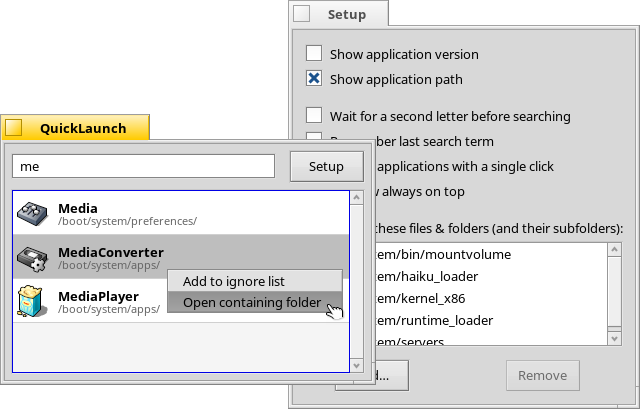
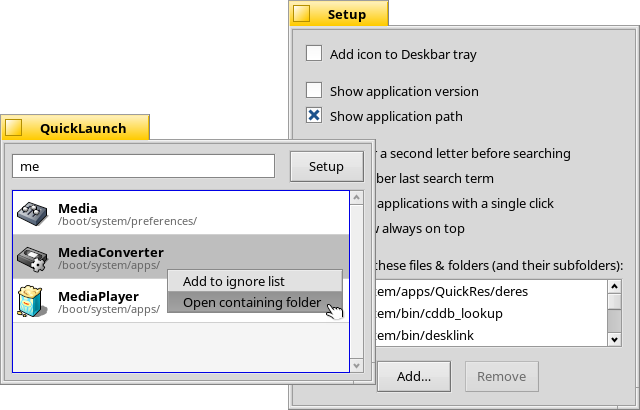
Update locales and documentation

diff --git a/ReadMe.html b/ReadMe.html
@@ -108,6 +108,7 @@ for <a href="http://www.haiku-os.org">Haiku</a><br />
 <p>In the main window the context menu was evoked via a right-click. The first item adds the selected app to the ignore list (works also with a drag &amp; drop). More on that in the setup options discussed below. The second item opens the app's location in a Tracker window. The same can be achieved by pressing <span class="key">CTRL</span>+<span class="key">RETURN</span>.</p>
 <p>The setup window shows these options:</p>
 <ul>
+<li><span class="menu">Show Deskbar replicant</span> — puts the QuickLaunch icon into the Deskbar tray. Click on it to start QuickLaunch.</li>
 <li><span class="menu">Show the version of an application</span> — only really useful when having older and newer versions of an app installed.</li>
 <li><span class="menu">Show the path to an application</span> —  interesting when you have several copies of an application.</li>
 <li><span class="menu">Wait for a second letter before starting the search</span> — probably only useful for slow systems.</li>
@@ -154,7 +155,8 @@ Finally, thanks to everyone that contributed translations for QuickLaunch.</p>
 <a id="history" name="history">History</a></h2>
 <p><b>1.0</b> - <i>16-03-2017:</i></p>
 <ul>
-<li>User request: Add a setting to launch applications with a single click.</li>
+<li>Add a setting to launch applications with a single click.</li>
+<li>Add optional to put a replicant in the Deskbar for a quick launch of QuickLaunch.</li>
 <li>Fixed layout issues in setup window and made default main and setup windows a bit bigger. Save the absolute position of the setup window.</li>
 <li>Improved page up/down scrolling.</li>
 <li>Change resizing of the main window to always fit the number of list items; font sensitive.</li>

diff --git a/SetupWindow.cpp b/SetupWindow.cpp
@@ -37,7 +37,7 @@ SetupWindow::SetupWindow(BRect frame)
 		| B_CLOSE_ON_ESCAPE)
 {
 	fChkDeskbar = new BCheckBox("DeskbarChk",
-		B_TRANSLATE("Add icon to Deskbar tray"),
+		B_TRANSLATE("Show Deskbar replicant"),
 		new BMessage(DESKBAR_CHK), B_WILL_DRAW | B_NAVIGABLE);
 	fChkDeskbar->SetExplicitMaxSize(BSize(B_SIZE_UNLIMITED, B_SIZE_UNSET));
 

diff --git a/ReadMe.md b/ReadMe.md
@@ -14,24 +14,43 @@ In the main window the context menu was evoked via a right-click. The first item
 
 The setup window shows these options:
 
-*   _Show the version of an application_ — only really useful when having older and newer versions of an app installed.
-*   _Show the path to an application_ — interesting when you have several copies of an application.
-*   _Wait for a second letter before starting the search_ — starts QuickLaunch with the previous search.
+*	_Show Deskbar replicant_ — puts the QuickLaunch icon into the Deskbar tray.
+	Click on it to start QuickLaunch.
+*   _Show the version of an application_ — only really useful when having older 
+	and newer versions of an app installed.
+*   _Show the path to an application_ — interesting when you have several copies 
+	of an application.
+*   _Wait for a second letter before starting the search_ — starts QuickLaunch 
+	with the previous search.
 *   _Remeber last search term_ — probably only useful for slow systems.
-*   _Launch applications with a single click_ — instead of requiring the usual double-click.
-*   _Window always on top_ — the window floats modally in front of all others. Useful if you start a few apps after another and don't want to lose QuickLauch under the newly opening windows.
-*   _Ignore these files & folders (and their subfolders)_ that you can add and remove from the list with the buttons at the bottom. You can also right-click an app in the main window's result list to add that specific app to the ignore list or drag & drop any application or folder from Tracker or an app from QuickLaunch's main window into it. _DEL_ removes the selected items from the ignore list.
+*   _Launch applications with a single click_ — instead of requiring the usual 
+	double-click.
+*   _Window always on top_ — the window floats modally in front of all others. 
+	Useful if you start a few apps after another and don't want to lose 
+	QuickLauch under the newly opening windows.
+*   _Ignore these files & folders (and their subfolders)_ that you can add and 
+	remove from the list with the buttons at the bottom. You can also right-
+	click an app in the main window's result list to add that specific app to 
+	the ignore list or drag & drop any application or folder from Tracker or an 
+	app from QuickLaunch's main window into it. _DEL_ removes the selected items 
+	from the ignore list.
 
 ### Tips & Tricks
 
-*   Assign a keycombo to QuickLaunch in Haiku's Shortcuts preferences, like _OPT_ + _SPACEBAR_, for even quicker QuickLaunching apps.
+*   Assign a keycombo to QuickLaunch in Haiku's Shortcuts preferences, like 
+	_OPT_ + _SPACEBAR_, for even quicker QuickLaunching apps.
 *   Use '\*' as wildcards, e.g. "\*play" for all apps with "play" in their name.
-*   _SHIFT_ + _RETURN_ will keep the QuickLaunch window open after launching the app.
-*   _CTRL_ + _RETURN_ will open an app's location in Tracker instead of launching it.
+*   _SHIFT_ + _RETURN_ will keep the QuickLaunch window open after launching the 
+	app.
+*   _CTRL_ + _RETURN_ will open an app's location in Tracker instead of 
+	launching it.
 *   These folders are ignored by default:
      `B_SYSTEM_ADDONS_DIRECTORY` and `B_TRASH_DIRECTORY`
      In other words, applications in Trash are ignored, as well as add-ons.
-     `B_SYSTEM_BIN_DIRECTORY` used to be ignored, but since especially ported software often ends up in the /bin folder, that is a bad idea. You'll have to remove unwanted commandline apps manually now, e.g. via _Add to ignore list_ of the context menu.
+     `B_SYSTEM_BIN_DIRECTORY` used to be ignored, but since especially ported 
+     software often ends up in the /bin folder, that is a bad idea. You'll have 
+     to remove unwanted commandline apps manually now, e.g. via _Add to ignore 
+     list_ of the context menu.
 
 ### Download
 
@@ -51,7 +70,9 @@ I have to thank DarkWyrm for some helpful hints and for some of the code I re-us
 
 **1.0** - _16-03-2017:_
 
-*	User request: Add a setting to launch applications with a single click.
+*	Add a setting to launch applications with a single click.
+*	Add optional to put a replicant in the Deskbar for a quick launch of 
+	QuickLaunch.
 *	Fixed layout issues in setup window and made default main and setup windows
     a bit bigger. Save the absolute position of the setup window.
 *	Improved page up/down scrolling.
